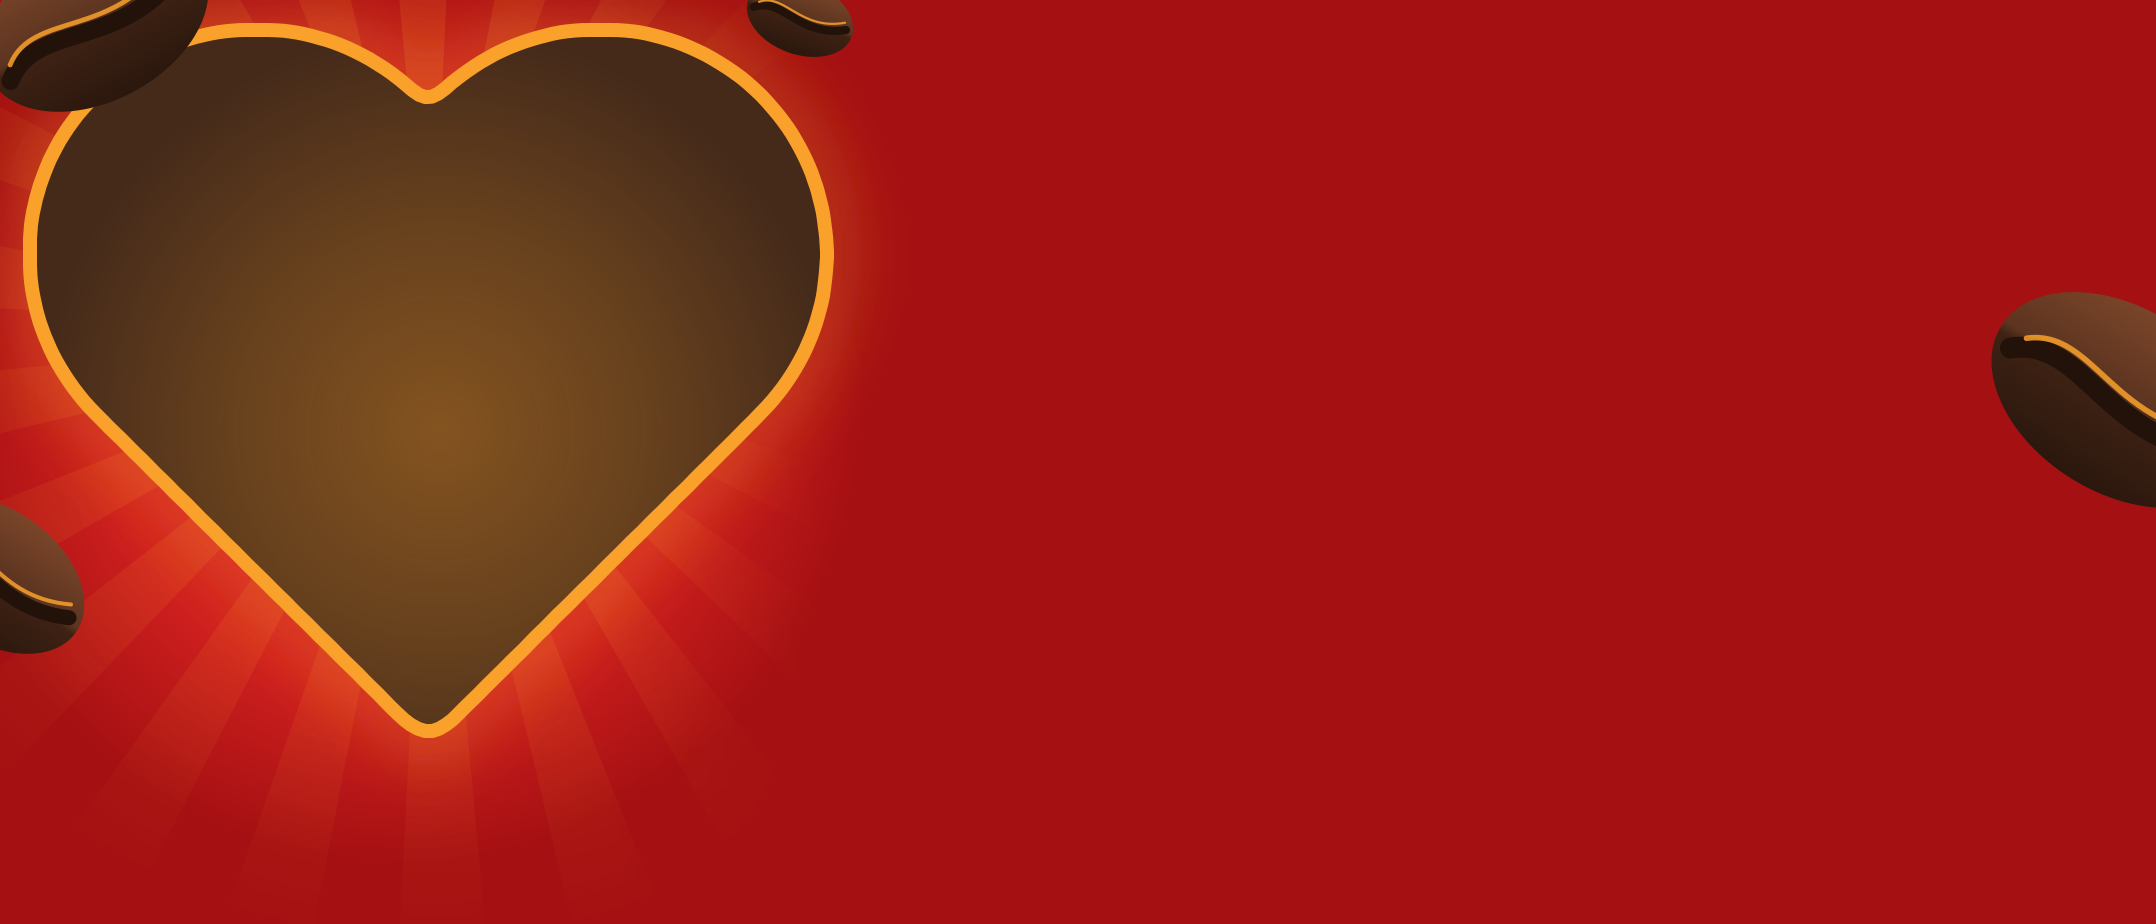
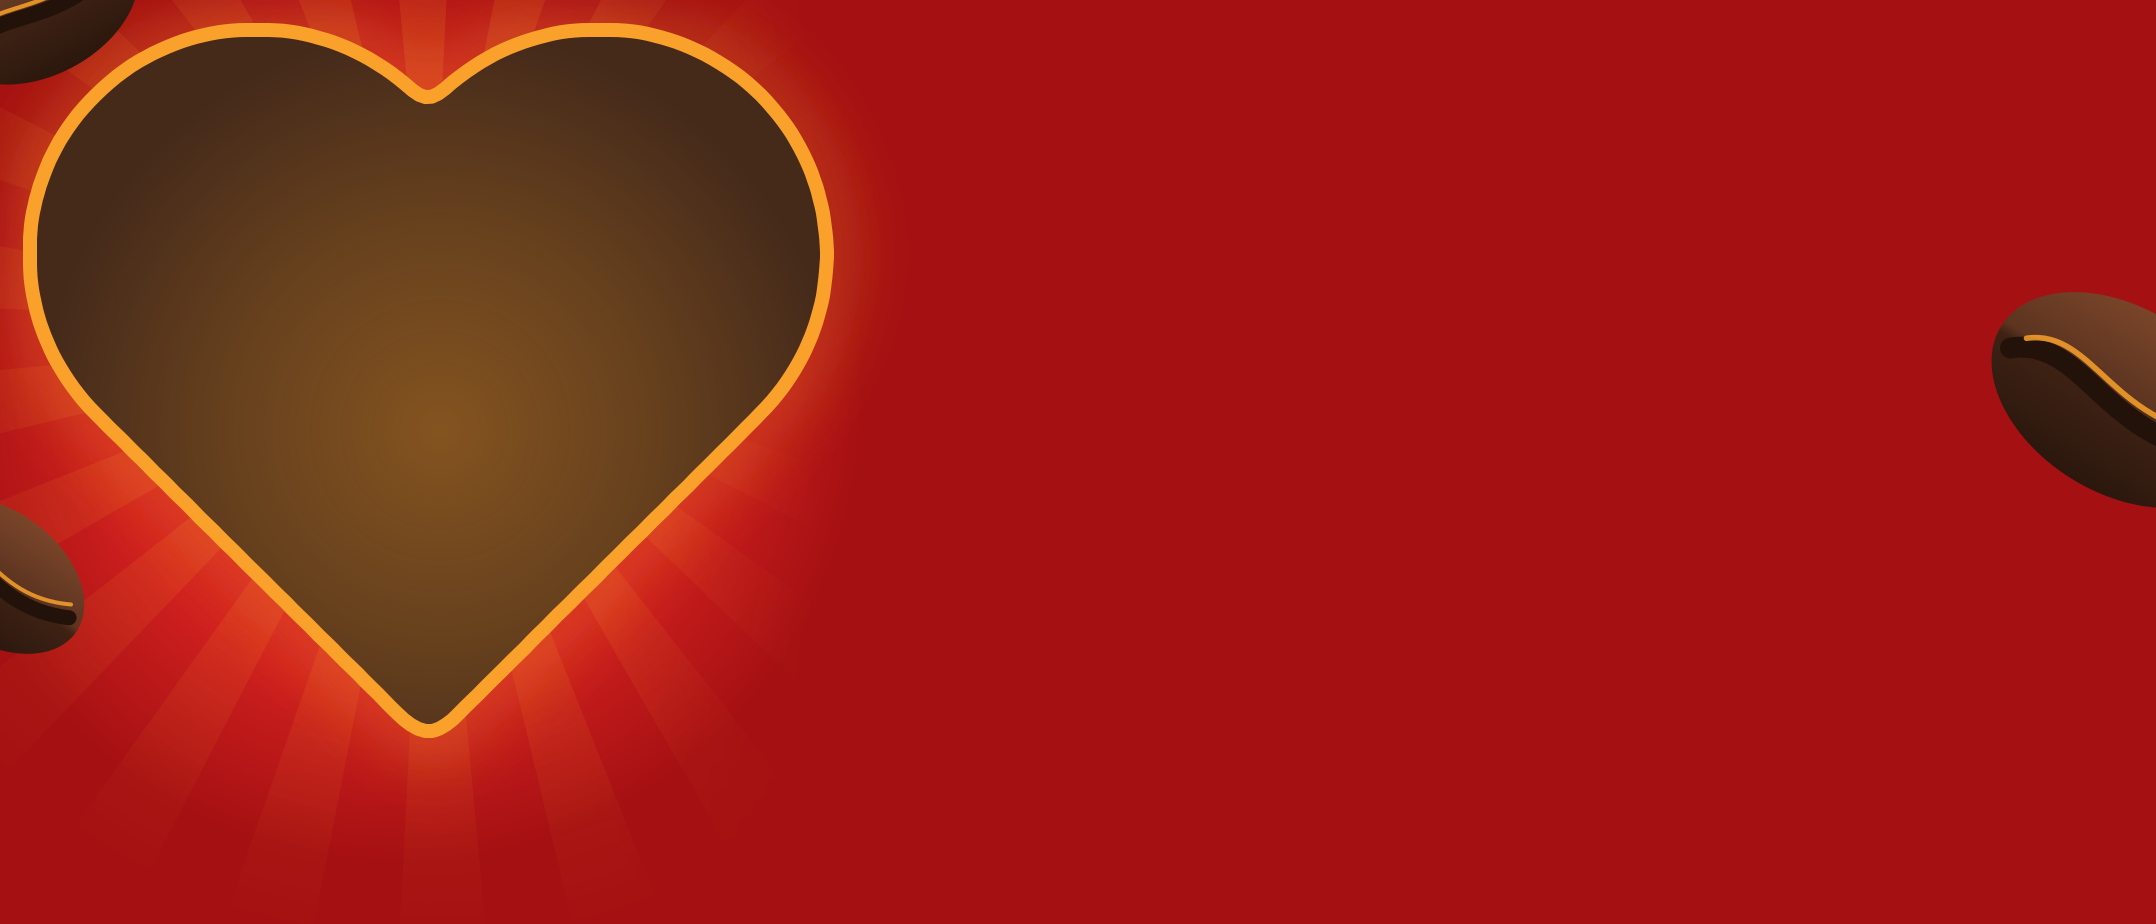
3 Corações: fundo I rodada 3 (grãos do topo afastados do contorno do coração)
Claude-Session: https://claude.ai/code/session_019BU3hU6S6AZTQEvP74YjRJ

Changed region(s): [[0.0, 0.0, 0.0932, 0.1212], [0.3418, 0.0, 0.404, 0.0606]]

diff --git a/ferramentas/fundo_3coracoes.py b/ferramentas/fundo_3coracoes.py
@@ -87,9 +87,8 @@ def svg():
     e.append(f'<g clip-path="url(#cCor)"><rect width="{W}" height="{H}" fill="url(#gLuz)"/></g>')
     e.append(f'<path d="{heart}" fill="none" stroke="{LARANJA}" stroke-width="14" stroke-linejoin="round"/>')
     # grãos: cantos esquerdos, grandes, sangrando pelas bordas
-    e.append(grao(96, 22, 240, -28))
+    e.append(grao(40, 6, 210, -28))
     e.append(grao(-6, 575, 200, 35))
-    e.append(grao(800, 18, 110, 20))
     # meio da borda direita (entre as logos, y 303–588)
     e.append(grao(2120, 400, 280, 32))
     return f'<svg xmlns="http://www.w3.org/2000/svg" width="{W}" height="{H}" viewBox="0 0 {W} {H}">' + "".join(e) + "</svg>"
